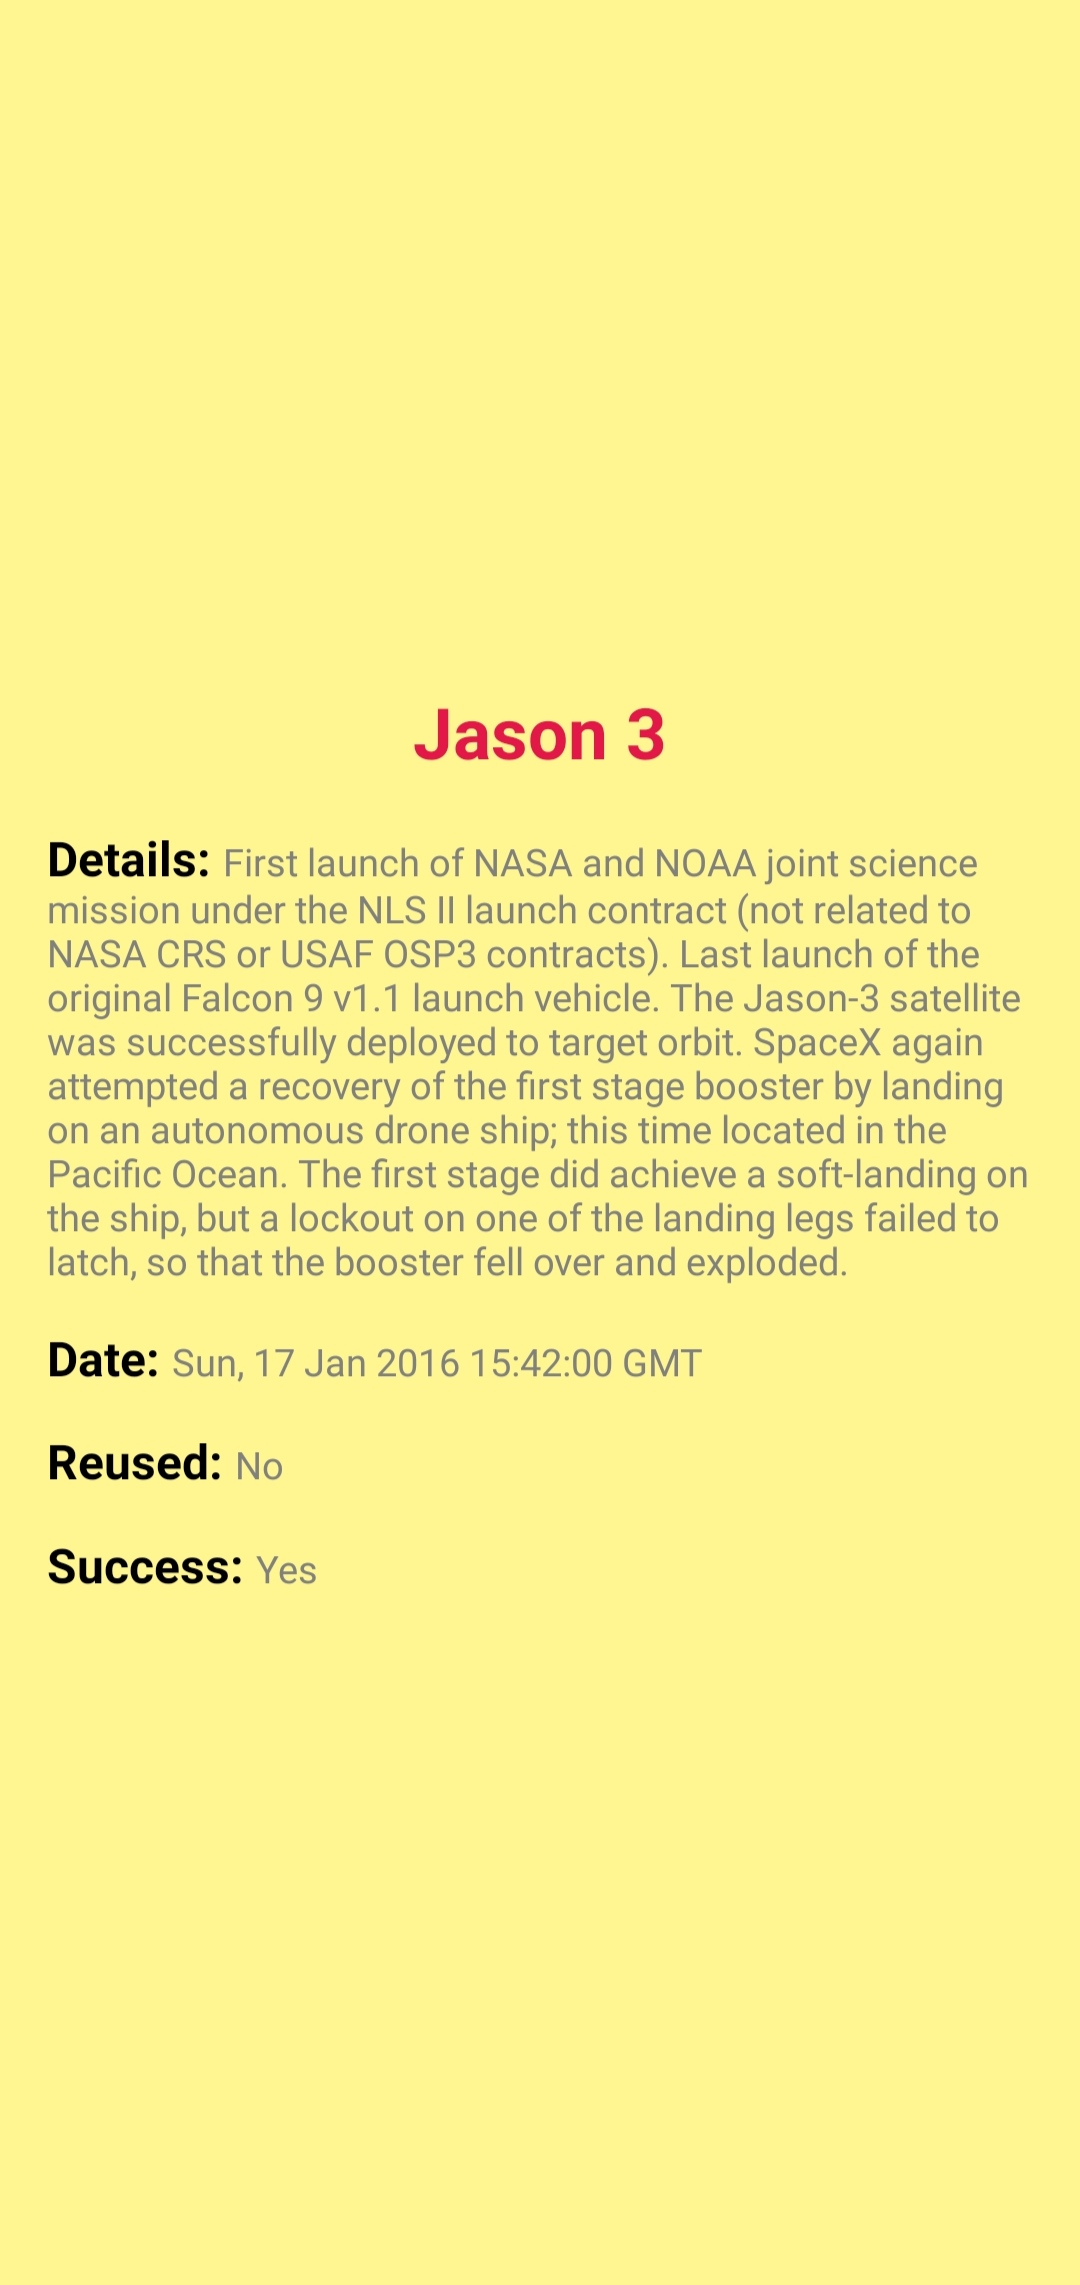
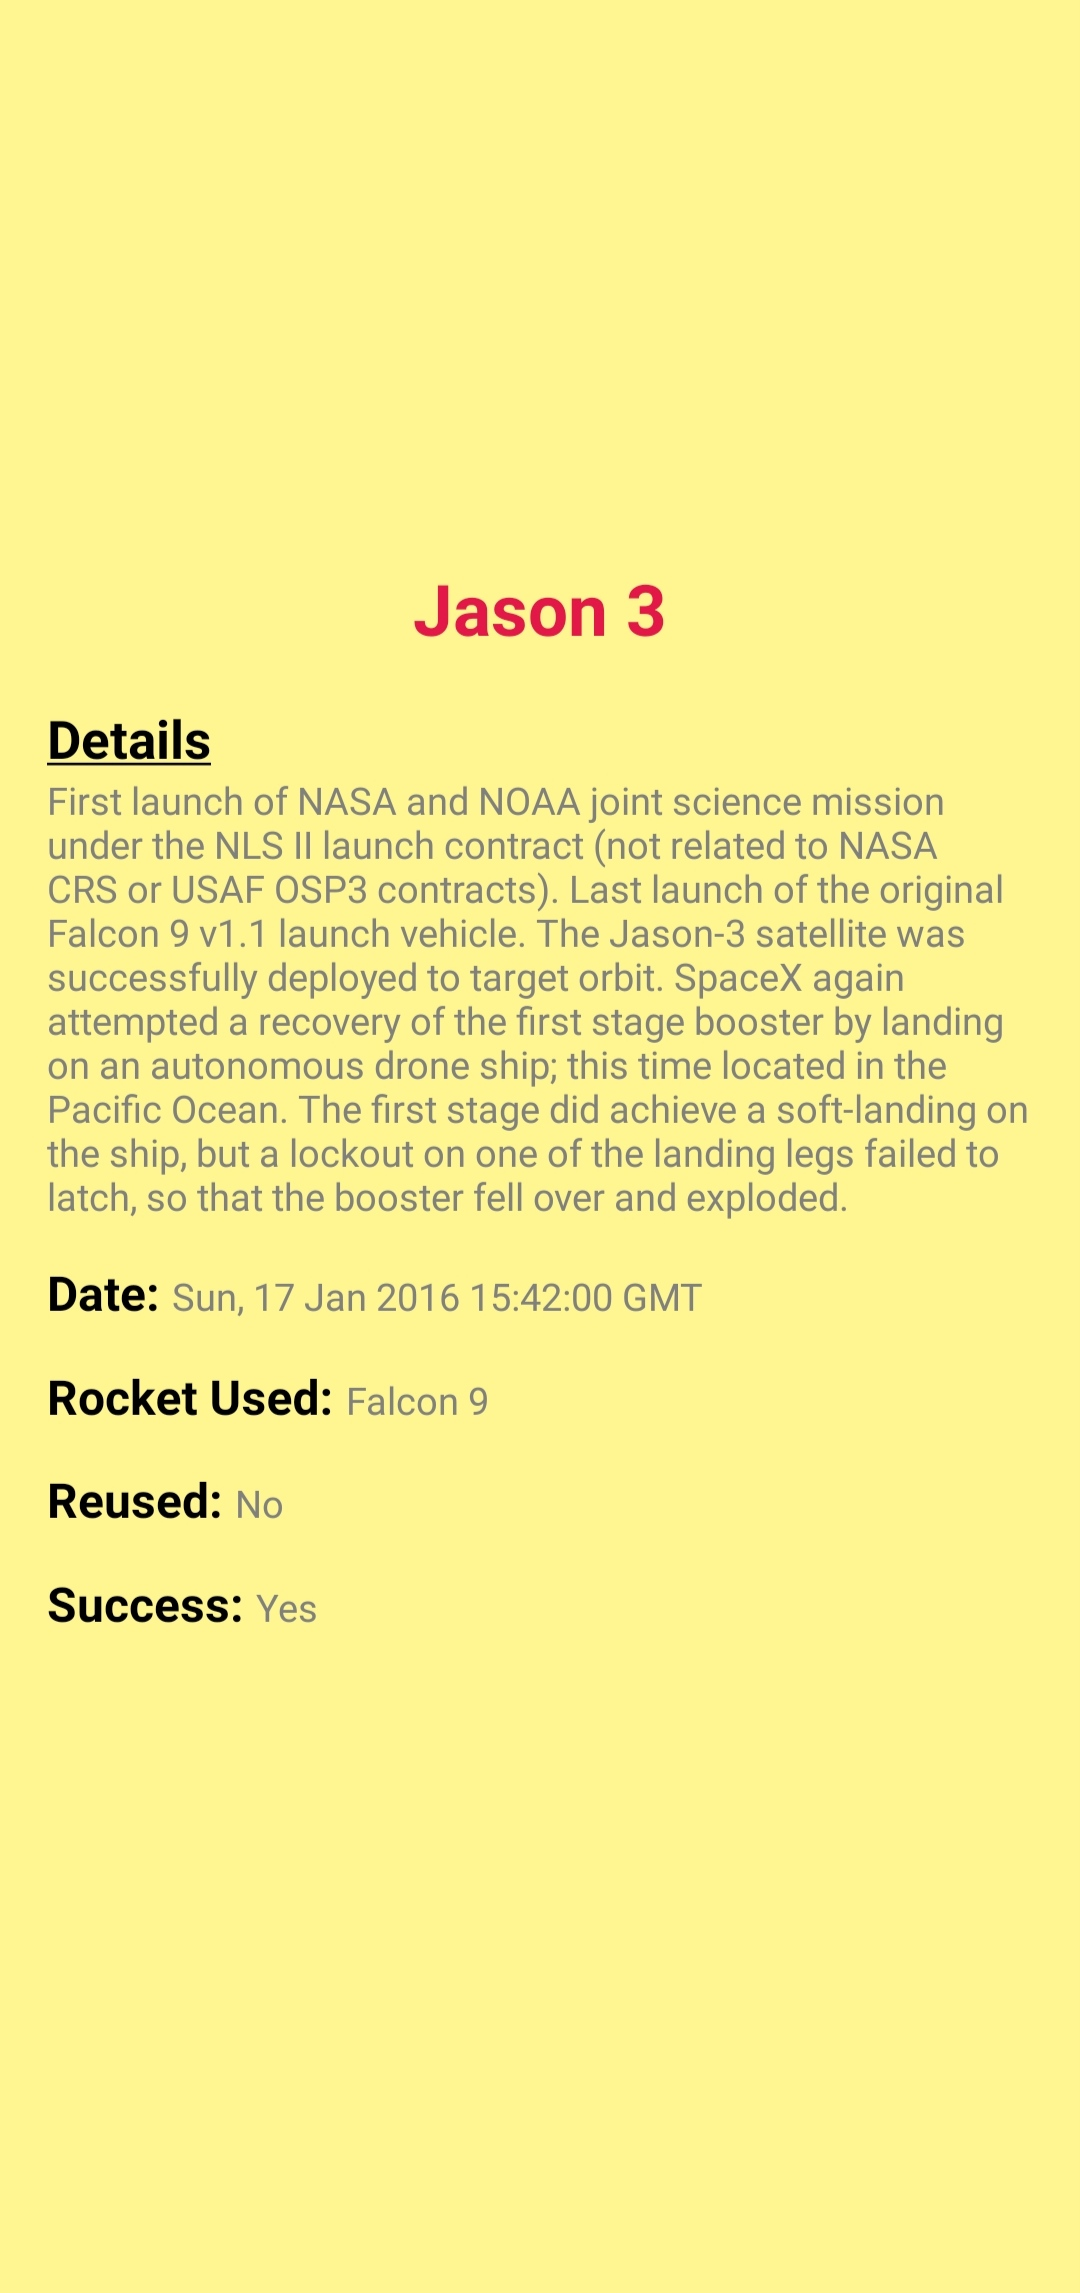
Refactored to TypeScript

Changed region(s): [[0.0306, 0.3107, 0.9472, 0.7147], [0.3972, 0.2486, 0.6111, 0.2796]]

diff --git a/src/Launch.tsx b/src/Launch.tsx
@@ -1,0 +1,110 @@
+import { View, Text } from "react-native";
+import React, { useEffect, useState } from "react";
+import styles from "./styles";
+import { LaunchData } from "./DataTypes";
+
+const Launch = (props: any) => {
+  const launchId = props.route.params.id;
+  const [launchData, setLaunchData] = useState({} as LaunchData);
+  const [rocketName, setRocketName] = useState("");
+
+  useEffect(() => {
+    async function fetchLaunchData() {
+      await fetch(`https://api.spacexdata.com/v5/launches/${launchId}`, {
+        method: "GET",
+      })
+        .then((res) => res.json())
+        .then((response) => {
+          setLaunchData(response);
+        })
+        .catch((error) => console.log(error));
+    }
+
+    fetchLaunchData();
+  }, []);
+
+  useEffect(() => {
+    (async () => {
+      await fetch(
+        `https://api.spacexdata.com/v4/rockets/${launchData.rocket}`,
+        {
+          method: "GET",
+        }
+      )
+        .then((res) => res.json())
+        .then((response) => {
+          setRocketName(response.name);
+        })
+        .catch((error) => console.log(error));
+    })();
+  }, [launchData]);
+
+  return (
+    <View style={styles.container}>
+      <Text style={styles.title}>{launchData.name}</Text>
+      <Text
+        style={{
+          fontWeight: "bold",
+          fontSize: 22,
+          marginTop: 7,
+          textDecorationLine: "underline",
+        }}
+      >
+        Details
+      </Text>
+      {launchData.details ? (
+        <Text style={styles.fieldText}>{launchData.details}</Text>
+      ) : (
+        <></>
+      )}
+      <Text style={{ marginVertical: 7 }}>
+        <Text style={styles.fieldTitle}>Date: </Text>
+        <Text style={styles.fieldText}>
+          {new Date(launchData.date_unix * 1000).toUTCString()}
+        </Text>
+      </Text>
+      <Text style={{ marginVertical: 7 }}>
+        {launchData.rocket === null ? (
+          <></>
+        ) : (
+          <>
+            <Text style={styles.fieldTitle}>Rocket Used: </Text>
+            <Text style={styles.fieldText}>{rocketName}</Text>
+          </>
+        )}
+      </Text>
+      <Text style={{ marginVertical: 7 }}>
+        <Text style={styles.fieldTitle}>Reused: </Text>
+        {launchData.fairings === undefined ? (
+          <></>
+        ) : (
+          <Text style={styles.fieldText}>
+            {launchData.fairings === null || launchData.fairings.reused === null
+              ? "Relevent data not present"
+              : launchData.fairings.reused === false
+              ? "No"
+              : "Yes"}
+          </Text>
+        )}
+      </Text>
+      <Text style={{ marginVertical: 7 }}>
+        {launchData.success === undefined ? (
+          <></>
+        ) : (
+          <>
+            <Text style={styles.fieldTitle}>Success: </Text>
+            <Text style={styles.fieldText}>
+              {launchData.success === null
+                ? "Relevent data not present"
+                : launchData.success === false
+                ? "No"
+                : "Yes"}
+            </Text>
+          </>
+        )}
+      </Text>
+    </View>
+  );
+};
+
+export default Launch;

diff --git a/src/LaunchPads.tsx b/src/LaunchPads.tsx
@@ -2,9 +2,10 @@ import { ScrollView, Text, TouchableOpacity, View } from "react-native";
 import React, { useEffect, useState } from "react";
 import LaunchItem from "./LaunchItem";
 import styles from "./styles";
+import { Pad } from "./DataTypes";
 
-const LaunchPads = (props) => {
-  const [launchpads, setLaunchpads] = useState([]);
+const LaunchPads = (props: any) => {
+  const [launchpads, setLaunchpads] = useState([] as any);
 
   useEffect(() => {
     async function fetchLaunchpads() {
@@ -24,9 +25,9 @@ const LaunchPads = (props) => {
   return (
     <View style={styles.container}>
       <Text style={styles.title}>SpaceX Launchpads</Text>
-      <ScrollView>
+      <ScrollView showsVerticalScrollIndicator={false}>
         <View>
-          {launchpads.map((pad, index) => {
+          {launchpads.map((pad: Pad, index: number) => {
             return (
               <View
                 key={index}
@@ -38,16 +39,14 @@ const LaunchPads = (props) => {
               >
                 <Text style={styles.padName}>{pad.name}</Text>
                 <Text style={{ marginBottom: 5 }}>
-                  <Text style={{ fontWeight: "bold", fontSize: 20 }}>
-                    Details:{" "}
-                  </Text>
-                  <Text style={styles.text}>{pad.details}</Text>
+                  <Text style={styles.fieldTitle}>Details: </Text>
+                  <Text style={styles.fieldText}>{pad.details}</Text>
                 </Text>
                 <Text style={{ marginBottom: 5 }}>
-                  <Text style={{ fontWeight: "bold", fontSize: 20 }}>
-                    Status:{" "}
-                  </Text>
-                  <Text style={styles.text}>{pad.status.toUpperCase()}</Text>{" "}
+                  <Text style={styles.fieldTitle}>Status: </Text>
+                  <Text style={styles.fieldText}>
+                    {pad.status.toUpperCase()}
+                  </Text>{" "}
                 </Text>
                 <Text
                   style={{
@@ -62,7 +61,7 @@ const LaunchPads = (props) => {
                   <Text style={{ fontSize: 18 }}>No Launch Available</Text>
                 ) : (
                   <>
-                    {pad.launches.map((launch, index) => {
+                    {pad.launches.map((launch, index: number) => {
                       if (index < 3)
                         return (
                           <TouchableOpacity

diff --git a/src/LaunchItem.tsx b/src/LaunchItem.tsx
@@ -1,8 +1,9 @@
 import { View, Text } from "react-native";
 import React, { useEffect, useState } from "react";
+import { LaunchData } from "./DataTypes";
 
-const LaunchItem = (props) => {
-  const [launchData, setLaunchData] = useState({});
+const LaunchItem = (props: any) => {
+  const [launchData, setLaunchData] = useState({} as LaunchData);
 
   useEffect(() => {
     async function fetchLaunchData() {

diff --git a/src/DataTypes.ts b/src/DataTypes.ts
@@ -1,0 +1,21 @@
+type Pad = {
+  name: String;
+  details: String;
+  status: String;
+  launches: Number[];
+};
+
+type Fairings = {
+  reused: Boolean;
+};
+
+type LaunchData = {
+  name: String;
+  details: String;
+  date_unix: number;
+  success: Boolean;
+  fairings: Fairings;
+  rocket: Number;
+};
+
+export { Pad, LaunchData };

diff --git a/src/styles.ts b/src/styles.ts
@@ -35,9 +35,15 @@ const styles = StyleSheet.create({
     marginBottom: 5,
   },
 
-  text: {
+  fieldTitle: {
+    fontWeight: "bold",
+    fontSize: 20,
+  },
+
+  fieldText: {
     color: "gray",
     fontSize: 16,
+    marginBottom: 7,
   },
 });
 

diff --git a/README.md b/README.md
@@ -1,6 +1,6 @@
 # SpaceX-Launchpads
 
-This project is developed using SpaceX APIs. It provides details on the list of launchpads and their launches. This project is build using [React Native](https://reactnative.dev/) on JavaScript.
+This project is developed using [SpaceX APIs](https://github.com/r-spacex/SpaceX-API/tree/master/docs). It provides details on the list of launchpads and their launches. This project is build using [React Native](https://reactnative.dev/) on TypeScript.
 
 ## Features
 
@@ -10,10 +10,4 @@ This project is developed using SpaceX APIs. It provides details on the list of 
 
 ## Preview
 
-**Page 1**
-
-<img src="assets/page1.jpg" width=180 >
-
-**Page 2**
-
-<img src="assets/page2.jpg" width=180 >
+<img src="assets/page1.jpg" width=200 height=450 alt="Page 1" > &nbsp;&nbsp; <img src="assets/page2.jpg" width=200 height=450 alt="Page 2" >
